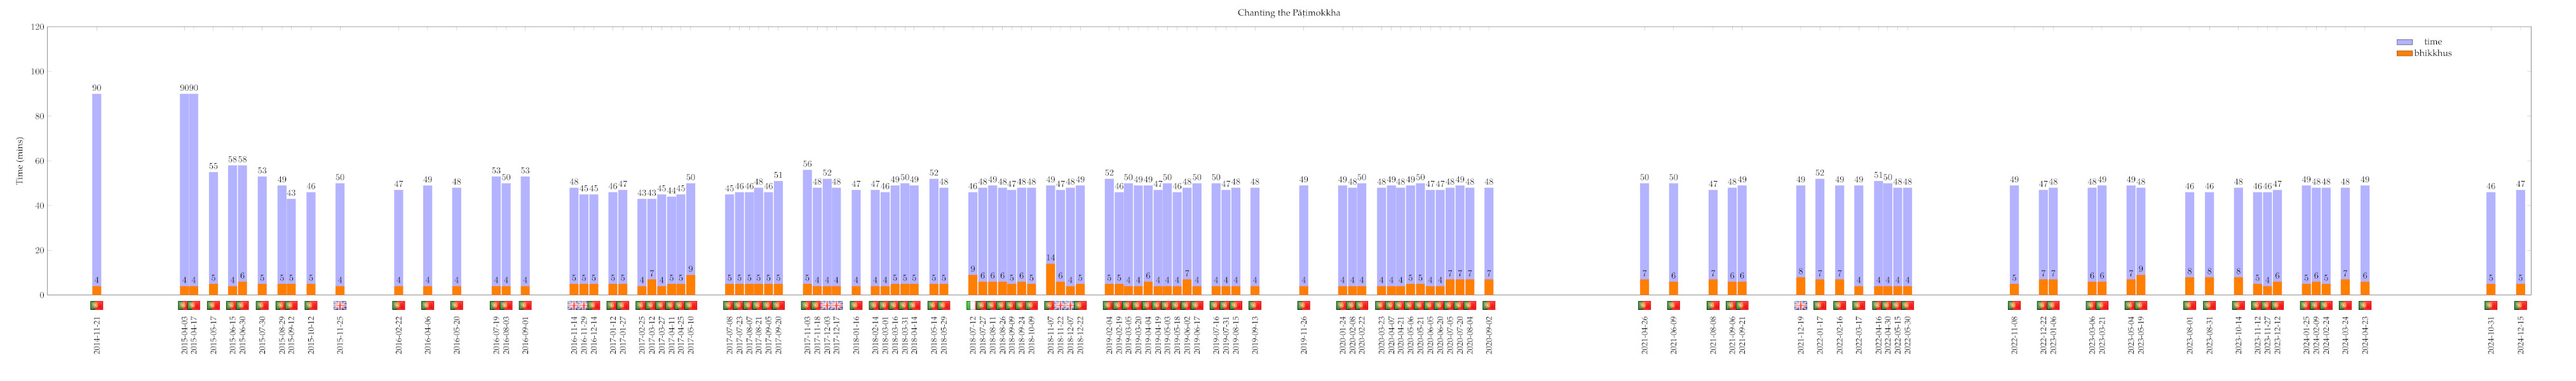
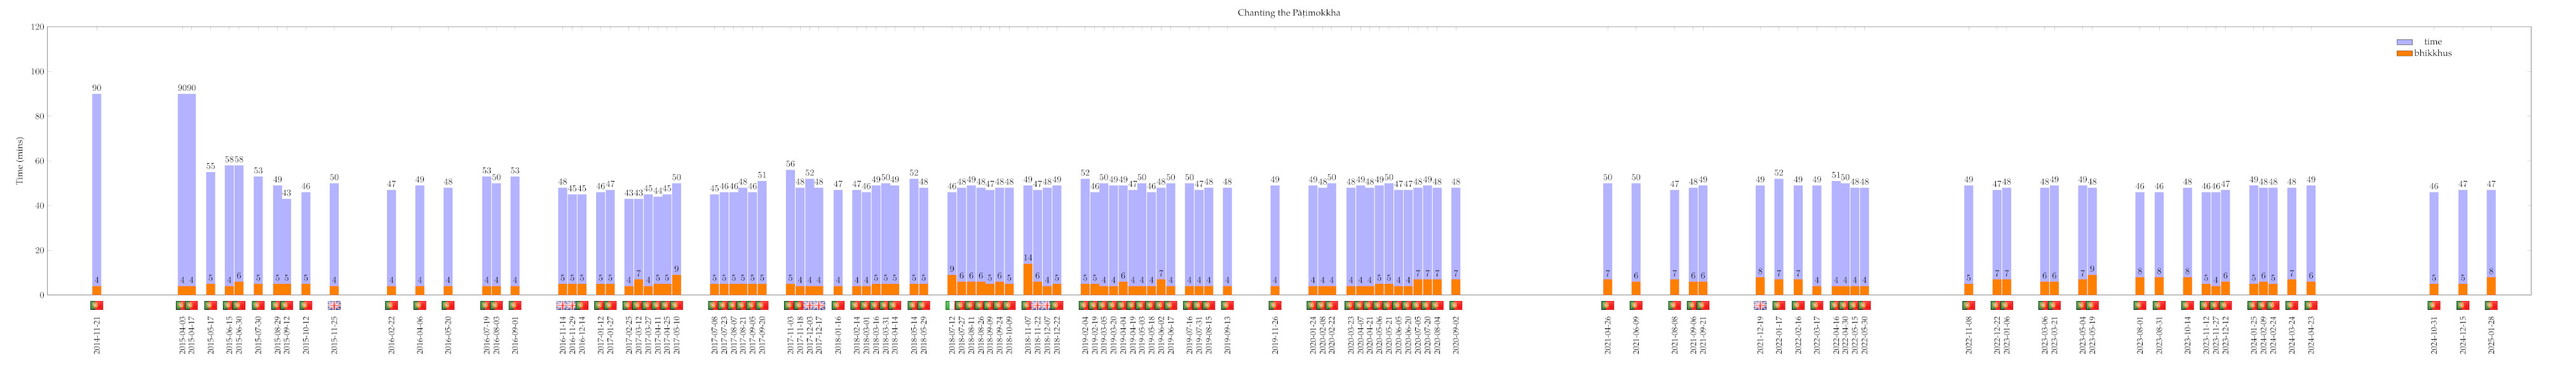
upd

Changed region(s): [[0.0622, 0.42, 0.5905, 0.93], [0.6216, 0.45, 0.9946, 0.93]]

diff --git a/src/patimokkha-chanting-chart.tex b/src/patimokkha-chanting-chart.tex
@@ -58,7 +58,7 @@
     ylabel=Time (mins),
     xtick=data,
     xmin=2014-11-20,
-    xmax=2024-12-31,
+    xmax=2025-03-31,
     enlarge x limits={rel=0.02,lower},
     xticklabel style={yshift=-20pt,rotate=90,anchor=east,font=\small},
     xticklabel={\year-\month-\day},
@@ -206,6 +206,7 @@
   \node [anchor=south, yshift=-20pt] at (axis cs:2024-04-23,0) {\includegraphics[width=5mm]{pt}};
   \node [anchor=south, yshift=-20pt] at (axis cs:2024-10-31,0) {\includegraphics[width=5mm]{pt}};
   \node [anchor=south, yshift=-20pt] at (axis cs:2024-12-15,0) {\includegraphics[width=5mm]{pt}};
+  \node [anchor=south, yshift=-20pt] at (axis cs:2025-01-28,0) {\includegraphics[width=5mm]{pt}};
 
 \end{axis}
 \end{tikzpicture}
